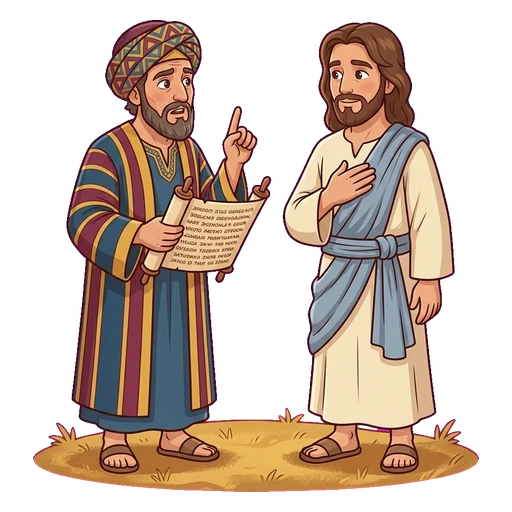
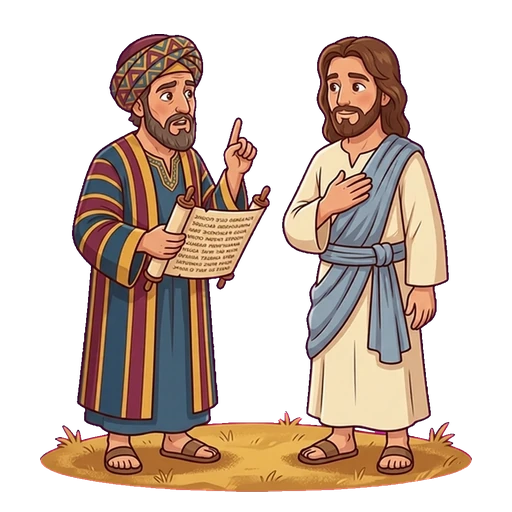
1.4.399 Story Strip Easy polish 3 (#596) (#613)
Keep Easy slot and win captions on whole words, show the Home button with the verse, and use the new Samaritan cut-outs so faces are not cropped.

Changed region(s): [[0.0625, 0.0312, 0.9375, 0.9688]]

diff --git a/src/styles/storyStrip.css b/src/styles/storyStrip.css
@@ -85,23 +85,22 @@
 }
 
 .strip-board.is-win[data-n='3'] {
-  height: 168px;
+  height: 132px;
 }
 
 .strip-board.is-win[data-n='4'] {
-  height: 156px;
+  height: 112px;
 }
 
 .strip-board.is-win[data-n='5'] {
-  height: auto;
-  flex-wrap: wrap;
-  justify-content: center;
+  height: 108px;
+  flex-wrap: nowrap;
 }
 
 .strip-board.is-win[data-n='5'] .strip-slot {
-  flex: 1 1 30%;
-  height: 120px;
-  max-width: 34%;
+  flex: 1 1 0;
+  height: 100%;
+  max-width: none;
 }
 
 .strip-slot {
@@ -135,9 +134,9 @@
 
 .strip-art {
   position: absolute;
-  left: 2%;
-  right: 2%;
-  top: 1px;
+  left: 0;
+  right: 0;
+  top: 0;
   overflow: hidden;
   pointer-events: none;
 }
@@ -156,15 +155,15 @@
   transform: none;
 }
 
-/* Story stills carry a ~5% white comic margin. Zoom just past it so they match the cutouts. */
+/* Story stills use the same contain framing as cutouts so heads are not cropped. */
 .strip-art.is-story .story-art-tile,
 .strip-art.is-story .story-art {
-  object-fit: cover;
+  object-fit: contain;
+  object-position: center center;
   inset: 0;
   width: 100%;
   height: 100%;
-  transform: scale(1.14);
-  transform-origin: center center;
+  transform: none;
 }
 
 .strip-gem {
@@ -202,7 +201,17 @@
   width: 100%;
   min-width: 0;
   white-space: normal;
-  overflow-wrap: break-word;
+  word-break: normal;
+  overflow-wrap: normal;
+  hyphens: none;
+}
+
+/* Five-up slots are ~60px. Keep each word whole (Samaritan, Go and do). */
+.strip-board[data-n='5'] .strip-cap.is-slot {
+  font-size: 10.5px;
+  line-height: 1.05;
+  letter-spacing: -0.03em;
+  padding: 1px 1px 0;
 }
 
 .strip-cap strong {
@@ -424,6 +433,37 @@
   opacity: 0.45;
 }
 
+.strip-board.is-win .strip-cap {
+  font-size: 10px;
+  line-height: 1.05;
+  letter-spacing: -0.02em;
+  padding: 1px 1px 0;
+  align-items: center;
+}
+
+.strip-board.is-win[data-n='3'] .strip-cap {
+  font-size: 12px;
+  letter-spacing: 0;
+  padding: 2px 3px;
+}
+
+.play.is-story-strip.is-win {
+  gap: 2px;
+}
+
+.play.is-story-strip.is-win .strip-lead {
+  font-size: 1.12rem;
+}
+
+.play.is-story-strip.is-win .strip-verse {
+  padding: 5px 8px;
+}
+
+.play.is-story-strip.is-win .strip-verse blockquote {
+  font-size: 13px;
+  line-height: 1.18;
+}
+
 .strip-stamp {
   align-self: center;
   margin: 2px 0 0;
@@ -444,6 +484,17 @@
   color: #ffd770;
   letter-spacing: 4px;
   font-size: 18px;
+}
+
+.play.is-story-strip.is-win .strip-stamp {
+  font-size: 18px;
+  padding: 2px 12px;
+  margin: 0;
+}
+
+.play.is-story-strip.is-win .strip-stars {
+  font-size: 15px;
+  line-height: 1;
 }
 
 .strip-verse {

diff --git a/src/lib/sequenceArt.ts b/src/lib/sequenceArt.ts
@@ -8,6 +8,10 @@ import creed2Buried from '../assets/story-strip/creed2-buried.webp'
 import creed3Raised from '../assets/story-strip/creed3-raised.webp'
 import creed4Appeared from '../assets/story-strip/creed4-appeared.webp'
 import road1Lawyer from '../assets/story-strip/road1-lawyer.webp'
+import road2Robbers from '../assets/story-strip/road2-robbers.webp'
+import road3Temple from '../assets/story-strip/road3-temple.webp'
+import road4Samaritan from '../assets/story-strip/road4-samaritan.webp'
+import road5Likewise from '../assets/story-strip/road5-likewise.webp'
 
 /** RGBA cutout keys. A later art swap replaces the file and keeps the key. */
 export const SEQUENCE_ART: Record<string, string> = {
@@ -19,6 +23,10 @@ export const SEQUENCE_ART: Record<string, string> = {
   'creed3-raised': creed3Raised,
   'creed4-appeared': creed4Appeared,
   'road1-lawyer': road1Lawyer,
+  'road2-robbers': road2Robbers,
+  'road3-temple': road3Temple,
+  'road4-samaritan': road4Samaritan,
+  'road5-likewise': road5Likewise,
 }
 
 export interface SequenceBackdrop {
@@ -42,9 +50,13 @@ const CUTOUT_BACKDROP: Record<string, SequenceBackdrop> = {
   'creed3-raised': { sky: '#ffd59a', horizon: '#fff6e0', ground: '#8fbf6a' },
   'creed4-appeared': { sky: '#f3d7a1', horizon: '#fff0c8', ground: '#7fba68' },
   'road1-lawyer': { sky: '#f6e2b8', horizon: '#fff6dd', ground: '#c4a06a' },
+  'road2-robbers': { sky: '#f6e2b8', horizon: '#fff6dd', ground: '#c4a06a' },
+  'road3-temple': { sky: '#f6e2b8', horizon: '#fff6dd', ground: '#c4a06a' },
+  'road4-samaritan': { sky: '#f6e2b8', horizon: '#fff6dd', ground: '#c4a06a' },
+  'road5-likewise': { sky: '#f6e2b8', horizon: '#fff6dd', ground: '#c4a06a' },
 }
 
-/** ph-road steps 2–5 reuse the Samaritan story panels. Step 1 is road1-lawyer. */
+/** Fallback only. ph-road items carry their own cutout keys. */
 const ROAD_SCENES: StoryScene[] = ['hurt', 'walk-past', 'help', 'neighbor']
 
 const FOUNDATION_IDS = new Set(['fg-reason', 'fg-ground', 'fg-mover'])
@@ -56,7 +68,7 @@ export type SequenceVisual =
   | { kind: 'gem'; gem: GemId; backdrop: SequenceBackdrop }
 
 /**
- * Explicit art, then StoryPanelArt scenes for ph-road, then FoundationArt for fg-*,
+ * Explicit cutout art, then a ph-road story-panel fallback, then FoundationArt for fg-*,
  * then a centered GemMark. Never an empty stretched chip.
  */
 export function resolveSequenceVisual(

diff --git a/src/content/parableHollow.ts b/src/content/parableHollow.ts
@@ -35,6 +35,7 @@ export const parableHollow: Area = {
         {
           id: 'b',
           gem: 'heart',
+          art: 'road2-robbers',
           text: 'Robbers leave a man half dead.',
           shortCaption: 'Robbers\nhurt him',
           role: 'Robbers',
@@ -42,6 +43,7 @@ export const parableHollow: Area = {
         {
           id: 'c',
           gem: 'door',
+          art: 'road3-temple',
           text: 'Two temple men pass by.',
           shortCaption: 'Temple\nmen pass',
           role: 'temple',
@@ -49,6 +51,7 @@ export const parableHollow: Area = {
         {
           id: 'd',
           gem: 'lamp',
+          art: 'road4-samaritan',
           text: 'A Samaritan has compassion and helps.',
           shortCaption: 'Samaritan\nhelps',
           role: 'Samaritan',
@@ -56,6 +59,7 @@ export const parableHollow: Area = {
         {
           id: 'e',
           gem: 'star',
+          art: 'road5-likewise',
           text: 'Jesus: “Go and do likewise.”',
           shortCaption: 'Go and do\nlikewise',
           role: 'Go',

diff --git a/src/components/challenges/StoryPiece.tsx b/src/components/challenges/StoryPiece.tsx
@@ -21,6 +21,8 @@ interface StoryPieceProps {
   showCaption: boolean
   /** `slot` uses the short line while the strip is still in play. */
   caption?: 'full' | 'slot'
+  /** Win strip: shorter caption band so the verse and Home button stay on screen. */
+  compact?: boolean
   wiggle?: boolean
   glow?: boolean
   snap?: boolean
@@ -34,6 +36,7 @@ export function StoryPiece({
   hard,
   showCaption,
   caption = 'full',
+  compact = false,
   wiggle,
   glow,
   snap,
@@ -60,7 +63,7 @@ export function StoryPiece({
 
   const edges = pieceEdges(card.orderIndex, count, hard)
   const slotText = caption === 'slot' && card.shortText ? card.shortText : null
-  const captionHeight = showCaption ? (slotText ? 40 : 52) : 0
+  const captionHeight = showCaption ? (slotText ? 40 : compact ? (count >= 5 ? 50 : 46) : 52) : 0
   const path = piecePath(box.w, box.h, edges.left, edges.right, captionHeight)
   const { backdrop } = card.visual
   const face = (

diff --git a/src/components/DailyTrail.tsx b/src/components/DailyTrail.tsx
@@ -126,6 +126,14 @@ export function DailyTrail({ onNavigate, forceId }: DailyTrailProps) {
         ) : null}
       {solved ? (
         <section className="after-win daily-done">
+          {easy && challenge.kind === 'sequence' ? (
+            <TownReturn
+              who={townVoice('porch').who}
+              line={townVoice('porch').afterWin}
+              action={EASY.home}
+              onGo={() => onNavigate({ name: 'hub', afterScene: true })}
+            />
+          ) : null}
           {brief && !held ? (
             <div className="rehearse-anchor">
               <RecallGate
@@ -164,7 +172,7 @@ export function DailyTrail({ onNavigate, forceId }: DailyTrailProps) {
             />
           ) : null}
 
-          {showNext ? (
+          {showNext && !(easy && challenge.kind === 'sequence') ? (
             <TownReturn
               who={townVoice('porch').who}
               line={townVoice('porch').afterWin}

diff --git a/src/components/ChallengeScreen.tsx b/src/components/ChallengeScreen.tsx
@@ -210,6 +210,14 @@ export function ChallengeScreen({
         ) : null}
       {showNext ? (
         <section className="after-win">
+          {easy && challenge.kind === 'sequence' ? (
+            <TownReturn
+              who={voice.who}
+              line={voice.afterWin}
+              action={EASY.home}
+              onGo={goNext}
+            />
+          ) : null}
           {brief && !recalled ? (
             <div className="rehearse-anchor">
               <RecallGate
@@ -248,7 +256,7 @@ export function ChallengeScreen({
             />
           ) : null}
 
-          {canProceed ? (
+          {canProceed && !(easy && challenge.kind === 'sequence') ? (
             <TownReturn
               who={voice.who}
               line={voice.afterWin}

diff --git a/src/content/changelog.ts b/src/content/changelog.ts
@@ -8,6 +8,14 @@ export interface ChangeNote {
 
 export const CHANGELOG: ChangeNote[] = [
   {
+    version: '1.4.399',
+    title: 'Story strip words stay whole',
+    when: '2026-10-09',
+    items: [
+      'Easy order captions keep each word whole, in the slots and on the win. The Samaritan road uses cut-out pictures like the other stories, so faces stay whole. The win strip is shorter so the Home button stays on the phone.',
+    ],
+  },
+  {
     version: '1.4.397',
     title: 'Story strip hints wait for a miss',
     when: '2026-10-09',

diff --git a/src/components/challenges/SequencePlay.tsx b/src/components/challenges/SequencePlay.tsx
@@ -208,6 +208,7 @@ export function SequencePlay({ challenge, onMiss, onSolved, onPeek }: SequencePl
                   hard={!easy}
                   showCaption={showSlotCaption}
                   caption={slotCaption}
+                  compact={status === 'ok'}
                   snap={snapIndex === index}
                   locked={easy || status === 'ok'}
                   onPress={easy || status === 'ok' ? undefined : () => undo(index)}

diff --git a/src/config/app.ts b/src/config/app.ts
@@ -1,5 +1,5 @@
 /** Display + envelope version. Keep in lockstep with package.json. */
-export const APP_VERSION = '1.4.397'
+export const APP_VERSION = '1.4.399'
 
 /** Capacitor / Play id — do not change without a migration story. */
 export const APP_ID = 'city.silver.unending'
